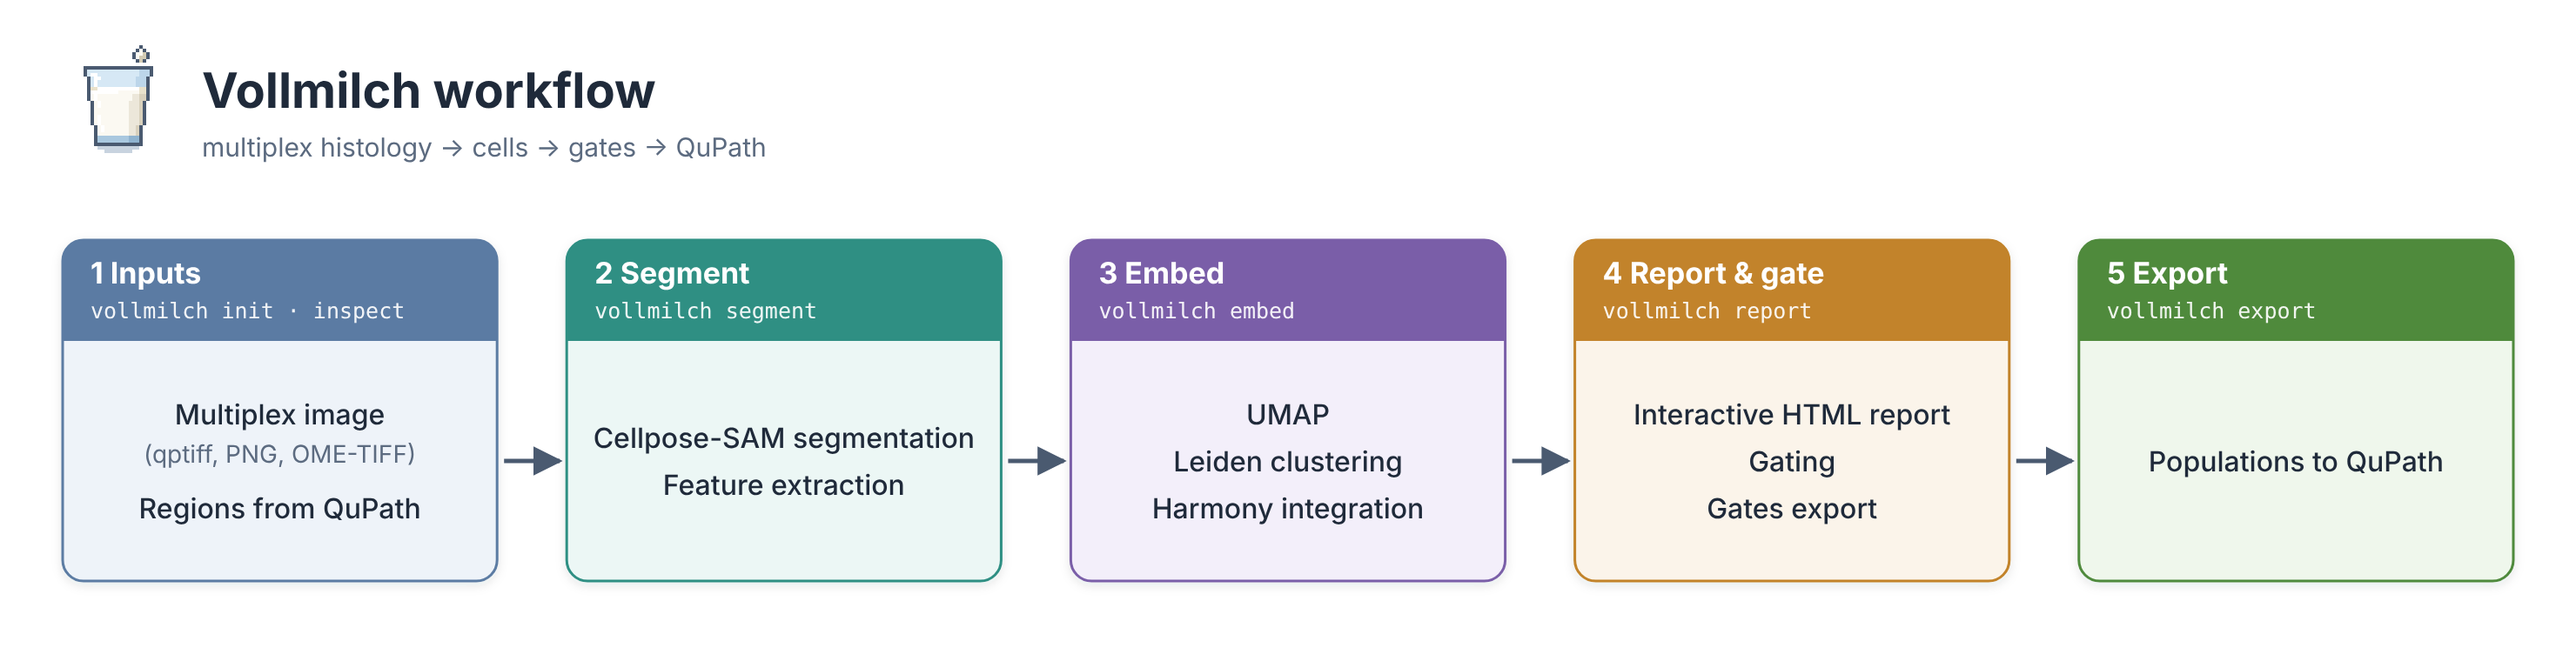
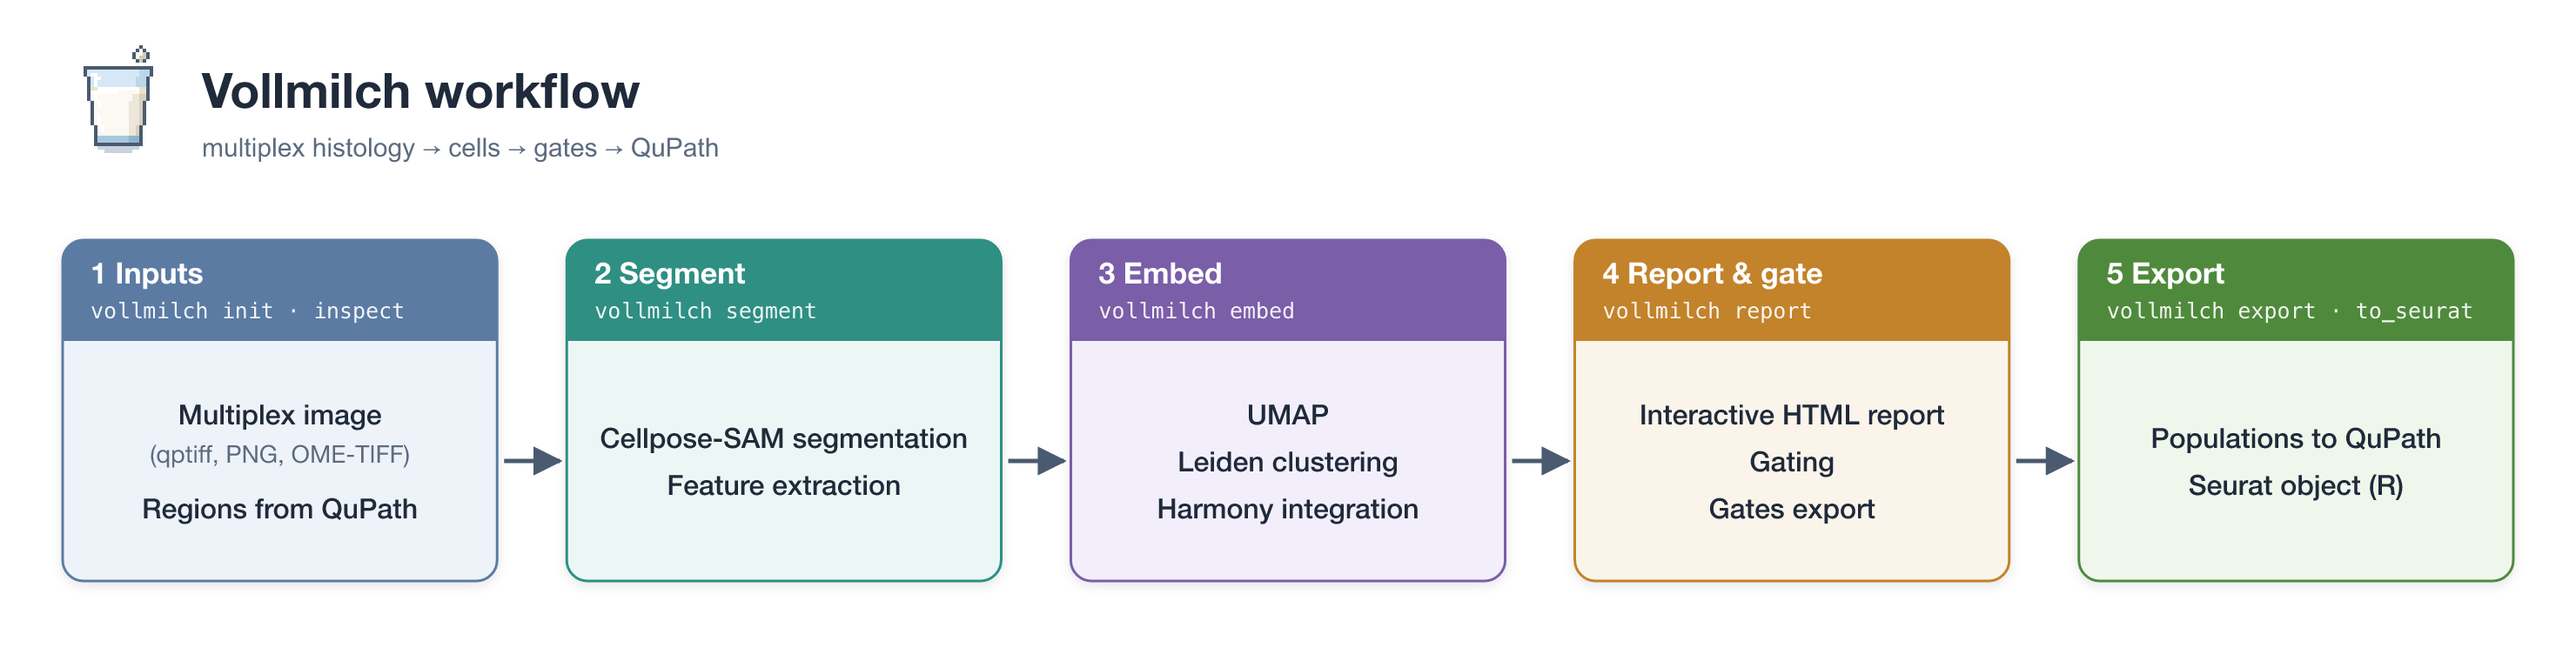
Workflow diagram: Seurat export in the Export box

diff --git a/docs/make_workflow.py b/docs/make_workflow.py
@@ -21,8 +21,8 @@ STAGES = [
          lines=["UMAP", "Leiden clustering", "Harmony integration"]),
     dict(title="Report & gate", cmd="vollmilch report", color="#c2832b", tint="#fbf4ea",
          lines=["Interactive HTML report", "Gating", "Gates export"]),
-    dict(title="Export", cmd="vollmilch export", color="#4f8a3c", tint="#eff7ec",
-         lines=["Populations to QuPath"]),
+    dict(title="Export", cmd="vollmilch export · to_seurat", color="#4f8a3c", tint="#eff7ec",
+         lines=["Populations to QuPath", "Seurat object (R)"]),
 ]
 
 M, GAP = 36, 40
